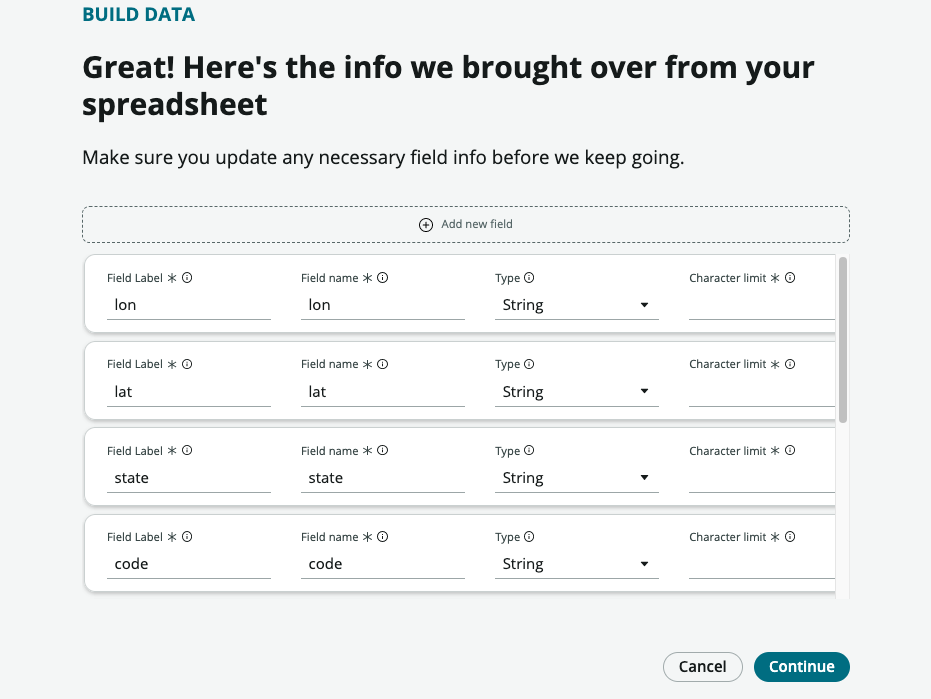
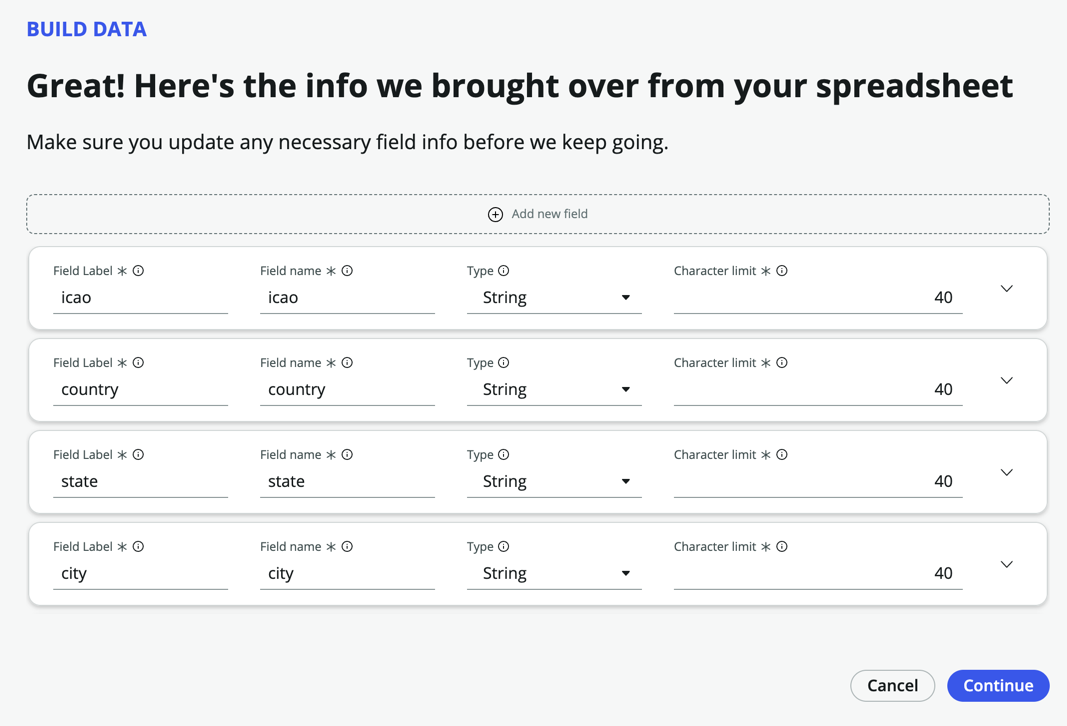
ex1updateutah

diff --git a/docs/Exercise 1.md b/docs/Exercise 1.md
@@ -47,19 +47,19 @@ We will now create a table to capture the travel requests.
 
     ![relative](images/addtable1.png)
 
-1. Click **Create a table**
-
-1. Click **Get started**
-
-1. Click **Begin**
-
-1. On the *Add Data* page, click **Create from an existing table**
+1. On the *Add Data* page, click **Create a blank table**
 
 1. Click **Continue**
 
     ![relative](images/existingtable.png)
 
-1. On the next page, search and select **Task**
+1. On the next page, select **Create from an extensible table**
+
+1. Click **Continue**
+
+    ![relative](images/extensibletable.png)
+
+1. On the next page, click **Table**, and select **Task** under *Recommended Tables*
 
     ![relative](images/selecttask.png)
 
@@ -71,7 +71,7 @@ We will now create a table to capture the travel requests.
 
 1. Check **Auto number**
 
-1. For Prefix, enter **TRVREQ**
+1. For Prefix, enter **TRV**
 
     ![relative](images/tabledetails.png)
 
@@ -85,22 +85,115 @@ We will now create a table to capture the travel requests.
 
 1. Click **Edit table**
 
-1. If presented with the **Welcome to Table builder** pop-up, read through the steps, then close it.
+1. If presented with the **Welcome to Table builder** pop-up, read through the steps, then close it
 
-1. You should now be on the *Table Builder* interface. Click **Add new field**, and add the following fields:
+1. You should now be on the *Table Builder* interface, in the *Spreadsheet* view
+
+    > Instead of adding fields individually via table builder, we will add fields directly onto the form view instead. But note that there are several ways to add fields to a table.
+
+1. Click on the **Forms** pill
+
+    ![relative](images/clickforms.png)
+
+1. The current form layout is inherited from the **task** table, we will only keep the fields relevant to us
+
+1. Remove the following fields from the form:
+    1. Priority
+    1. Assigned to
+    1. Configuration item
+    1. Parent
+
+    ![relative](images/removefield.png)
+
+1. The form should look like this
+
+    ![relative](images/formstate1.png)
+
+1. On the left panel, click **Add a field in the table**
+
+    ![relative](images/addifled.png)
+
+1. On the pop-up modal, enter **Departure date** under **Column label**, the **Column name** should be auto-populated
+
+1. Change **Type** to **Date**
+
+    ![relative](images/addfieldcon.png)
+
+1. Click **Add**
+
+1. Click **Add another one**
+
+1. Enter **Return date** under **Column label**, the **Column name** should be auto-populated
+
+1. Change **Type** to **Date**
+
+    ![relative](images/returndate.png)
+
+1. Click **Add**
+
+1. Click **Add another one**
+
+1. Repeat the steps above for the following 2 fields:
 
     Column label | Type
     -------------- | --------------
-    Departure date | Date
-    Return date | Date
-    Estimated airfare | Decimal 
-    Reason for travel | Choice (Dropdown with --None--) : **Internal meeting, Customer meeting, Training** (Create each of these in a new line by pressing enter after every entry)
+    Number of days | Integer
+    Reason for travel | Choice
 
-1. Click **Done**
+1. The panel on the left should show 4 new fields with a purple highlight
 
-1. Your screen should look like this
+1. Drag and drop those 4 fields onto the form
 
-    ![relative](images/newfields1.png)
+    ![relative](images/dragdrop.png)
+
+    > Tip: You will need to ensure that you see a grey outline box with a plus icon before releasing the field
+    ![relative](images/dragdrophelp.png)
+
+1. Search and add two more standard fields onto the form: **Opened by, Approval** (These come standard with the **Task** table)
+
+1. Click **Save** on the top right of the form
+
+1. Within you form, locate and click **Reason for travel**
+
+1. The right-side panel will update for the configuration of this field. Expand **Choices**, then click **Edit (1)**
+
+    ![relative](images/openchoices.png)
+
+1. On the **Edit choices for Reason for travel** screen, click **+ Add a choice**
+
+1. Under **Label**, enter Customer meeting, the **Value** field should auto-populate
+
+1. Add another two Labels: **Internal meeting** and **Training**
+
+    ![relative](images/addchoices.png)
+
+1. On the bottom right, click **Apply**
+
+1. Click **Number of days**
+
+1. On the right-side panel, expand **Formula** and click **+Add**
+
+    ![relative](images/addformula.png)
+
+1. In the pop-up **Formula** box, you are able to enter Excel based formulas. Here, we would like to calculate the number of days traveled
+
+1. Enter **TIME**, the it should automatically pickup the operator for **TIMEDIFF**, press Enter
+
+    ![relative](images/timediff.png)
+
+1. The inputs are shown in the formula example below, we need to provide two different date values
+
+1. Within the brackets, first type *return**, then select your custom field **return_date**
+
+1. Key in a **comma**
+
+    ![relative](images/returndate1.png)
+
+1. Finish off the formula by entering and selecting **departure_date**
+
+    ![relative](images/depdate.png)
+
+1. Click **Submit**
 
 1. Click **Save**
 
@@ -116,13 +209,7 @@ We will now create a table to capture the travel requests.
 
     ![relative](images/addairport.png)
 
-1. Click **Create a table**
-
-1. Click **Get started**
-
-1. Click **Begin**
-
-1. This time, select **Upload a spreadsheet**
+1. Click **Import a spreadsheet**
 
     ![relative](images/uploadss.png)
 
@@ -132,13 +219,21 @@ We will now create a table to capture the travel requests.
 
 1. Upload the downloaded file to the upload box. You should see the following screen once the upload is successful
 
-    ![relative](images/uploadcomplete.png)
+1. Ensure that **Enter a row number for the table header** is set to **1**
 
-1. ***IMPORTANT***: Make sure to check the **Import spreadsheet data** box.
+1. Check the **Import spreadsheet data** box
+
+    ![relative](images/uploadcomplete.png)
 
 1. Click **Continue**
 
-1. After a short loading time, you should land on the page that says: "Great! Here's the info we brought over from your spreadsheet"
+1. On the following page, click **Create new table**
+
+    ![relative](images/importnew.png)
+
+1. Click **Continue**
+
+1. You should land on the page that says: "Great! Here's the info we brought over from your spreadsheet"
 
     ![relative](images/mapexcel.png)
 
@@ -146,15 +241,11 @@ We will now create a table to capture the travel requests.
 
 1. Click **Continue**
 
-1. Under **Table label**, enter **Airport**. **Table name** will be automatically populate, leave it as it is
-
-1. Check **Auto number**, leave the Prefix as it is
-
-    ![relative](images/filledupairport.png)
-
-    > In some cases, you might face an error informing you that the name has been taken. You can add a random string of numbers to the **Table name**, e.g. airport573839, and then change the **Prefix** back to **AIR**
+1. Under **Table label**, enter **Airport**. **Table name** will be automatically populate
     
 1. Click **Continue**
+
+    ![relative](images/airporttab.png)
 
 1. In the roles page, check **All** for *admin*, and only **Read** for *user*
 
@@ -164,19 +255,21 @@ We will now create a table to capture the travel requests.
 
 1. Click **Edit table**
 
-1. On the table editor, toggle **Display** on the **Name** row. This is what users will search for when selecting airports
+1. You should see the imported data in the Table spreadsheet view
 
     ![relative](images/displayname.png)
 
-1. Click **Save** on the top right of the screen
-
-1. Click **Preview**
-
-1. A new tab should open and show you the list of airports you have imported. Notice that there are 24 airports imported as per our excel spreadsheet. 
-  
-    ![relative](images/airportlist.png)
-
     > In case you were wondering, the Lat and Lon fields are deliberately left empty. In the optional bonus exercise, we will use an API to get these values, but has no impact on our exercises.
+
+1. Click more next to the **Data** pill, and change the **Data views** to **Fields**
+
+    ![relative](images/changeview.png)
+
+1. Toggle **Display** to true for the **Name** field
+
+    ![relative](images/toggledisplay.png)
+
+1. Click **Save**
 
 Great, you now have a table to store the list of Airports!
 
@@ -186,68 +279,28 @@ Great, you now have a table to store the list of Airports!
 
     ![relative](images/returntreq.png)
 
-1. If not, return to **App Home** and open the **Travel request** table
+1. If not, return to **App Home** and open the **Travel request** table, ensure you are in the **Form** view
 
-1. Click **Add new field**, and add the following fields:
+1. Click **+ Add a field in the table**, and add the following fields:
 
     Column label | Type
     -------------- | --------------
     Travel from | Reference (Airport)
     Travel to | Reference (Airport) 
 
-    ![relative](images/reference1.png)
+    ![relative](images/tfromair.png)
 
-1. It should look like the following once you've added the two new fields
+1. Drag and drop your two newly created custom fields onto the form
 
-    ![relative](images/tftt.png)
+    ![relative](images/addairportfield.png)
 
 1. Click **Save**
 
     > For simplicity, we are not adding additional fields like Daily estimated expenses, etc. You can always choose to add those fields if you want to.
 
-## Styling the backend form
-
-1. Still in the table designer, click **Forms**
-
-    ![relative](images/formviews.png)
-
-1. Remove the following fields from the screen by clicking the **X** icon
-
-    - Assigned to
-    - Configuration item
-    - Priority
-    - Parent
-    - Active
-
-    <br>
-
-    ![relative](images/removefields.gif)
-
-1.  These fields are inherited from the task table, and are not needed for the purposes of our application.
-
-1. From the left sidebar, search and drag in the following fields onto the form views
-
-    - Reason for travel
-    - Opened by
-    - Travel from
-    - Travel to
-    - Departure date
-    - Return date
-    - Estimated airfare
-
-    <br>
-
-    ![relative](images/editingform.gif)
-
-1. When completed, your form view should look similar to this
-
-    ![relative](images/editedform.png)
-
-1. Click **Save**
-
 Congratulations, you have completed Exercise 1 and now have a complete way to store the Travel requests from your employees.
 
 <br>
 
-[Previous screen](https://shaoservicenow.github.io/hyperautomation/){: .btn .mr-4 }
-[Next exercise](https://shaoservicenow.github.io/hyperautomation/Exercise%202.html){: .btn .btn-purple }
+[Previous screen](https://shaoservicenow.github.io/travelrequest/){: .btn .mr-4 }
+[Next exercise](https://shaoservicenow.github.io/travelrequest/docs/Exercise%202.html){: .btn .btn-purple }
